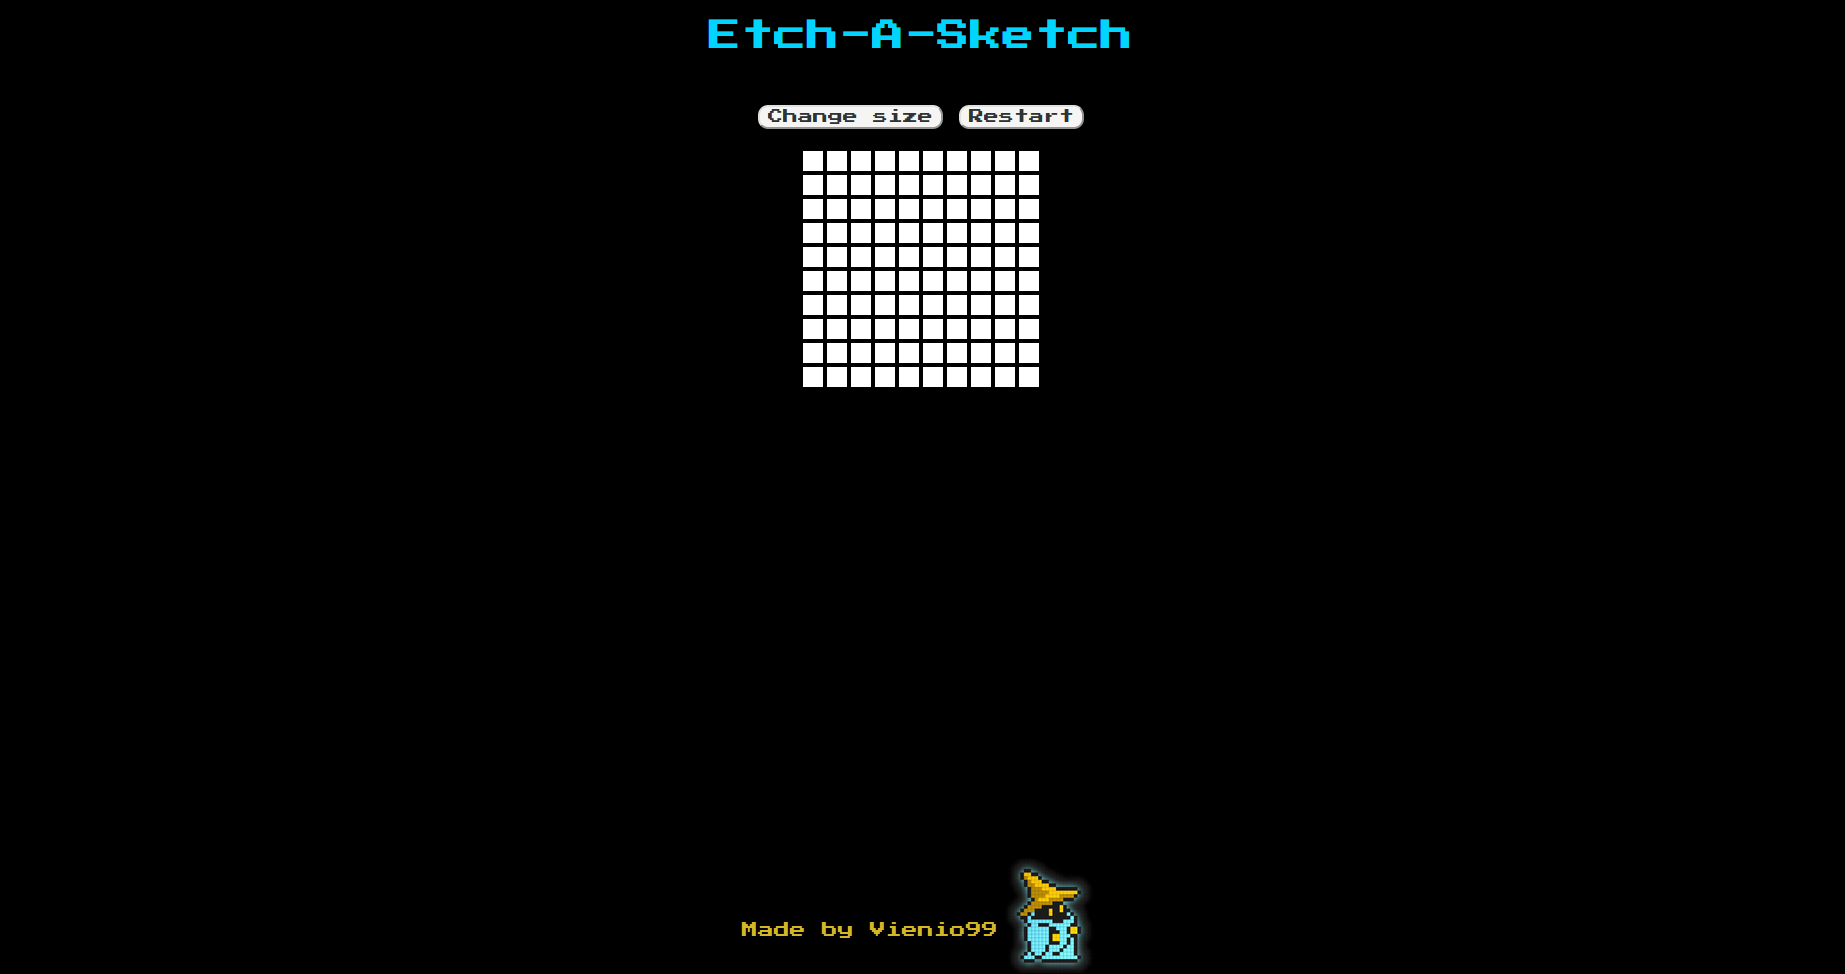
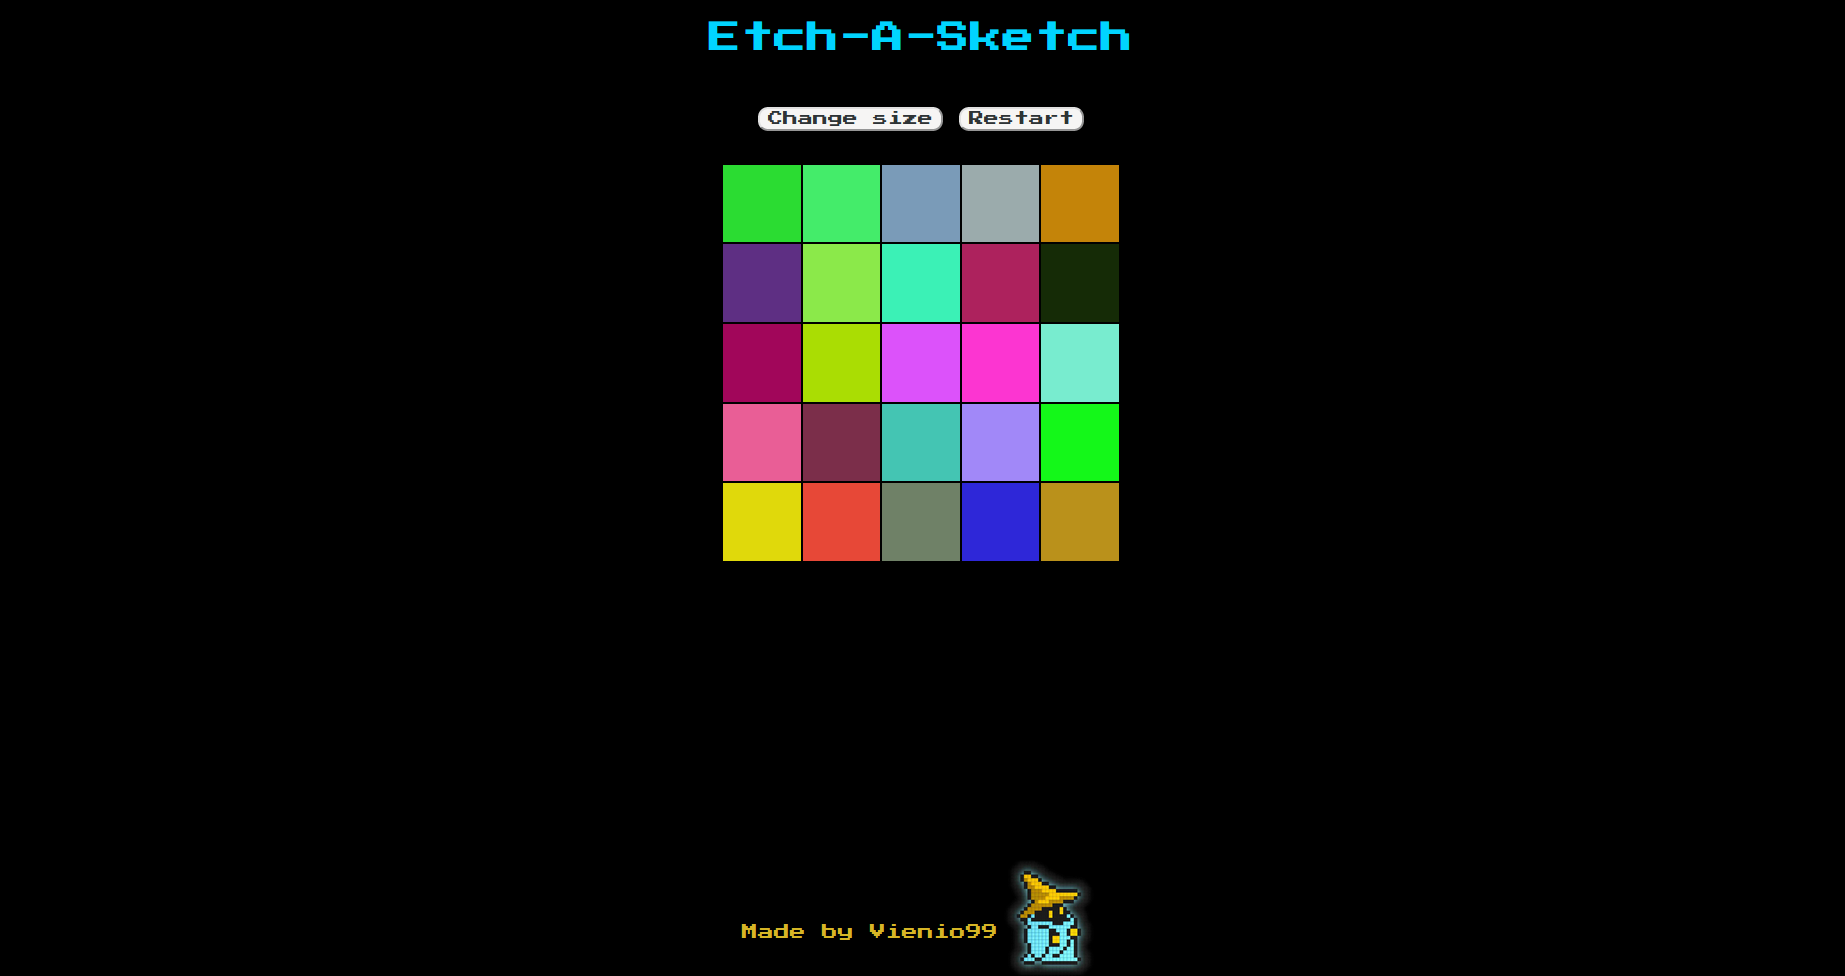
fixed problems with flexing grid

Changed region(s): [[0.3707, 0.0924, 0.6179, 0.5852], [0.3707, 0.0308, 0.6179, 0.0616]]

diff --git a/index.js b/index.js
@@ -1,28 +1,23 @@
-function findSquare(number) {
-    return Math.sqrt(number).toFixed()
-}
-
 const setBg = () => {
     const randomColor = '#' + Math.floor(Math.random() * 16777215).toString(16);
     return randomColor;
 }
 
 function createGrid(size) {
-    let squaredSize = findSquare(size)
-    size = squaredSize * squaredSize;
-    for (let i = 0; i < size; i++) {
+    container.style.gridTemplateColumns = `repeat(${size}, 1fr)`;
+    for (let i = 0; i < size ** 2; i++) {
         square = document.createElement('div');
         square.classList.add('square');
         square.style.backgroundColor = 'white';
         container.appendChild(square);
-        container.style.gridTemplateColumns = "repeat(" + Math.sqrt(size) + ", 0fr)";
+        square.style.height = square.style.width;
     } 
 }
 
 const container = document.querySelector('.container')
 let square;
 
-let size = 100;
+let size = 10;
 createGrid(size);
 
 // Button to change size of the grid
@@ -67,8 +62,4 @@ restart.onclick = function(event) {
         square.style.backgroundColor = 'white';
     })
     
-}
-
-module.exports = {
-    findSquare: findSquare,
 }

diff --git a/index.css b/index.css
@@ -31,13 +31,17 @@ h1:hover {
 
 .container {
     display: grid;
-    justify-content: center;
+    border: 1px solid black;
+    width: 400px;
+    height: 400px;
+    max-width: 400px;
+    max-height: 400px;
+    box-sizing: border-box;
+    margin: 2rem auto;
 }
 
 .square {
-    height: 20px;
-    width: 20px;    
-    border: 2px solid black;
+    border: 1px solid black;
 }
 
 .main-buttons {
